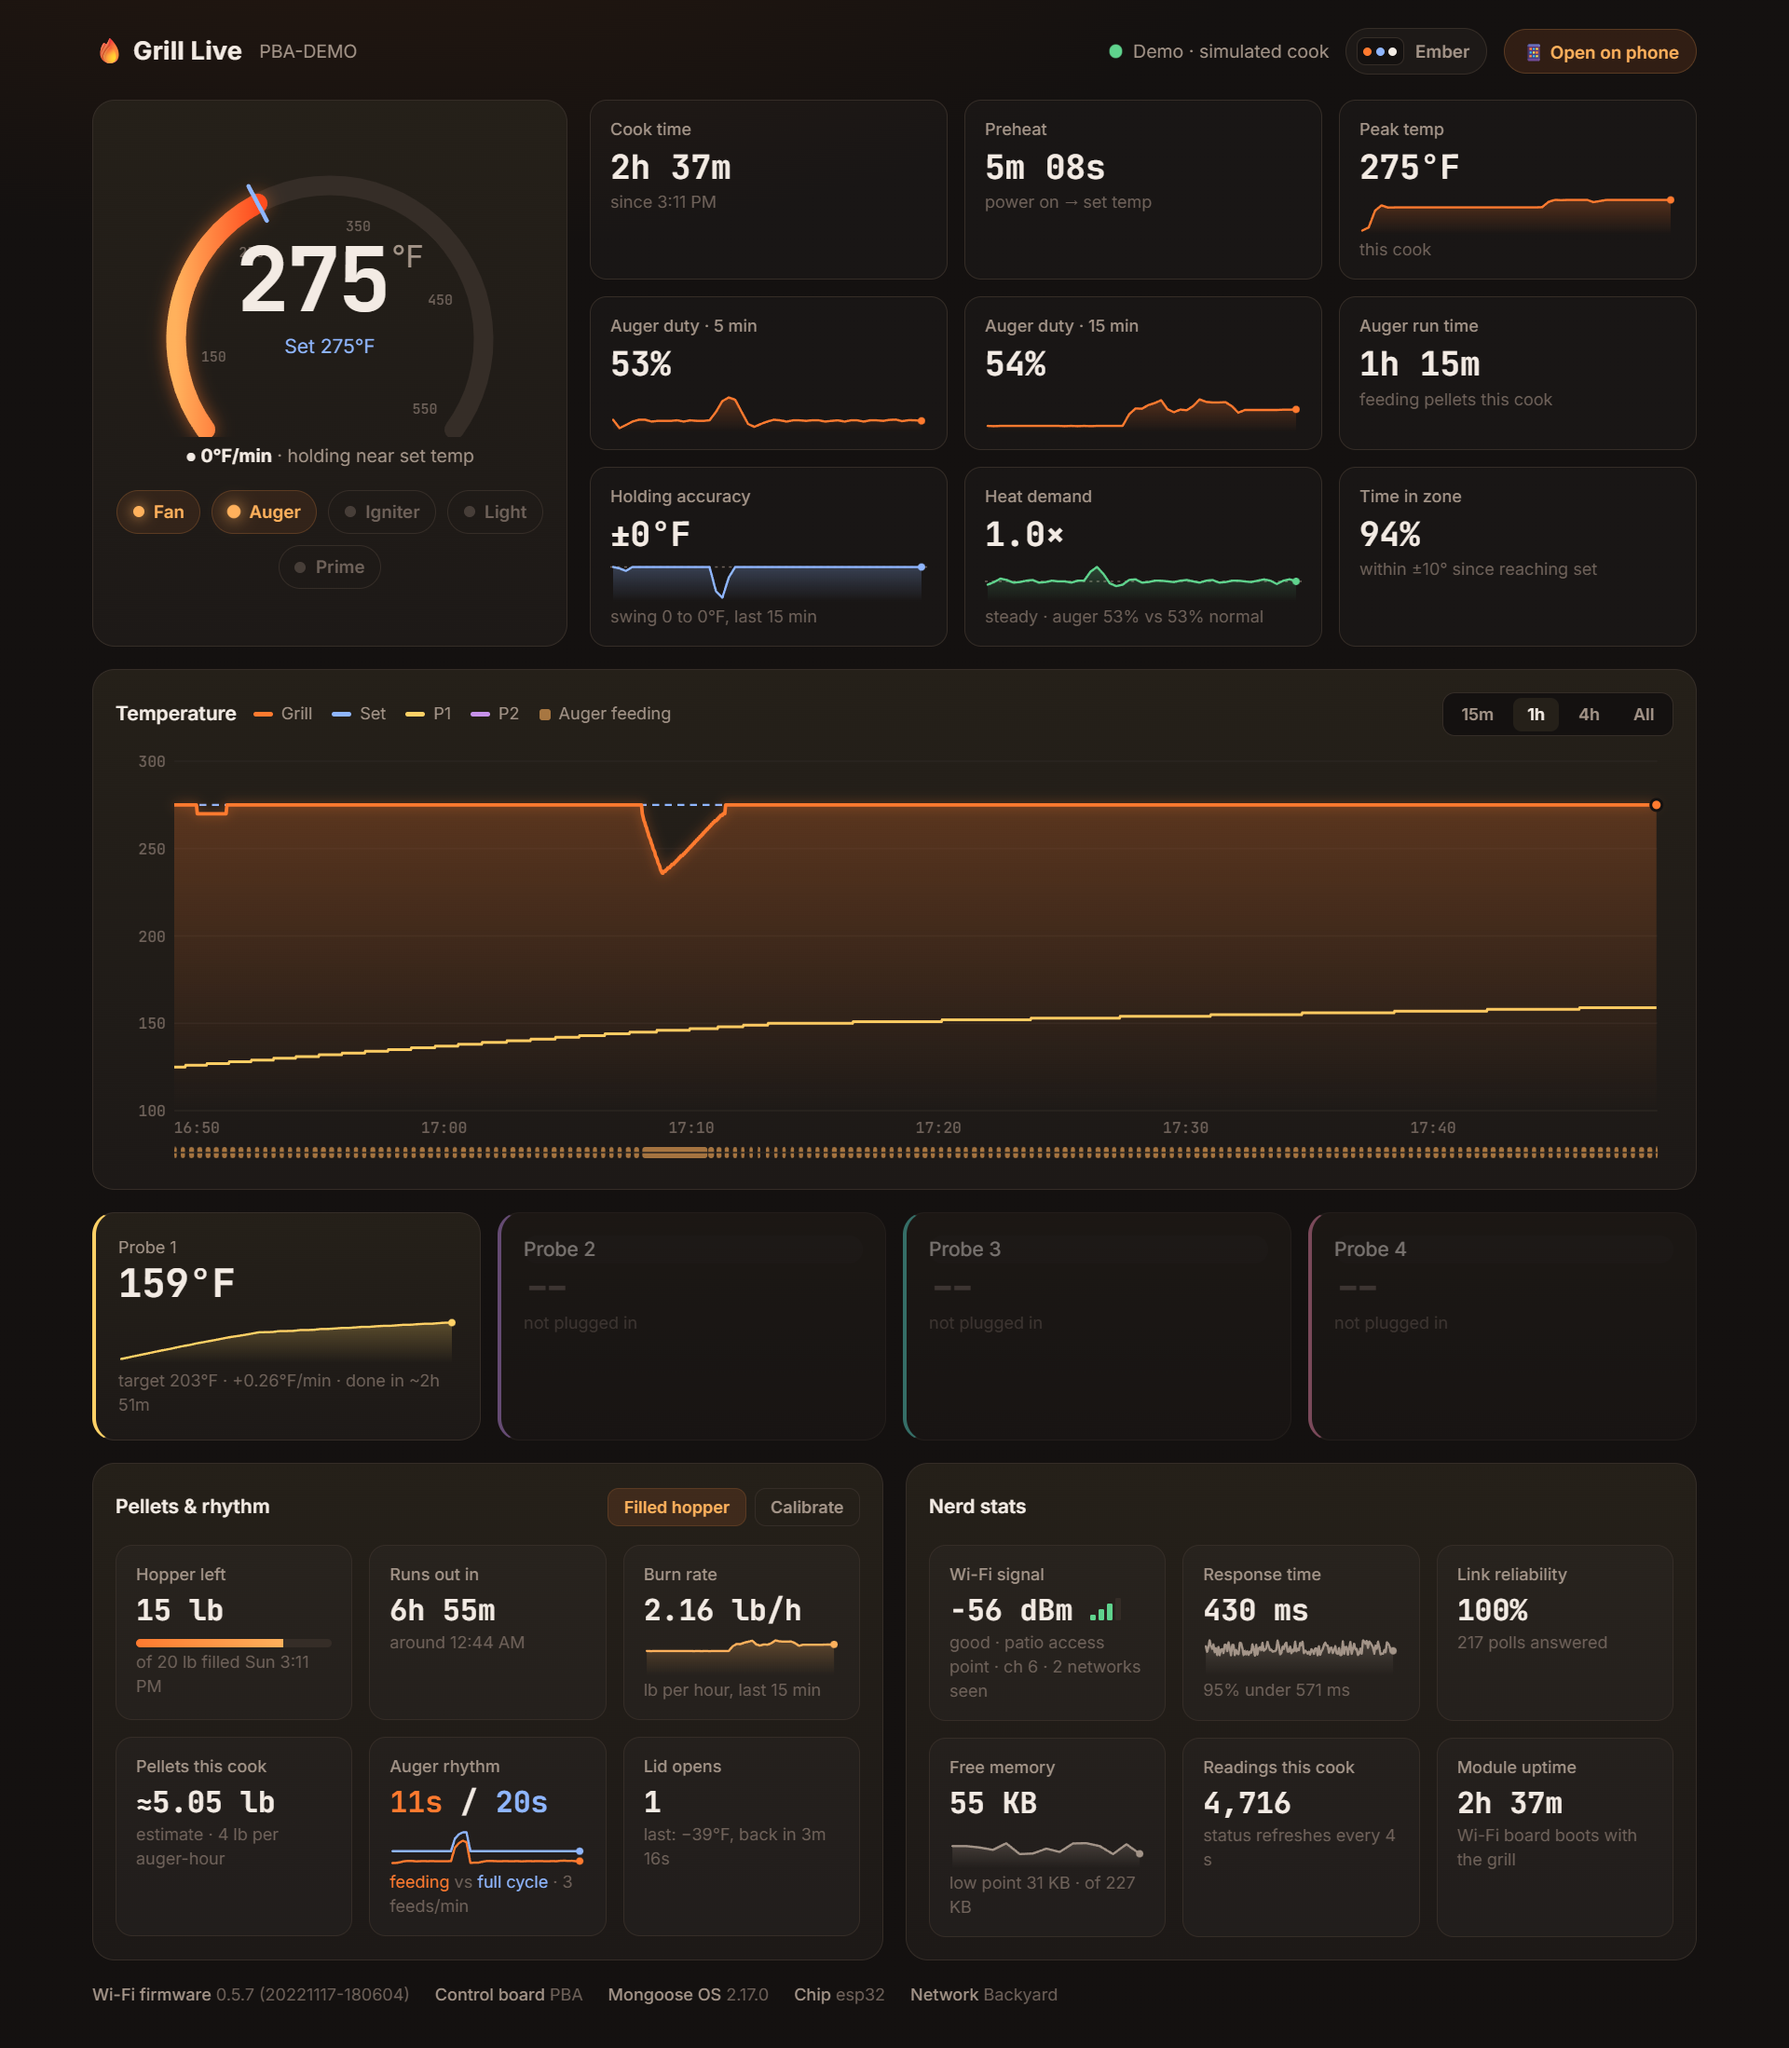
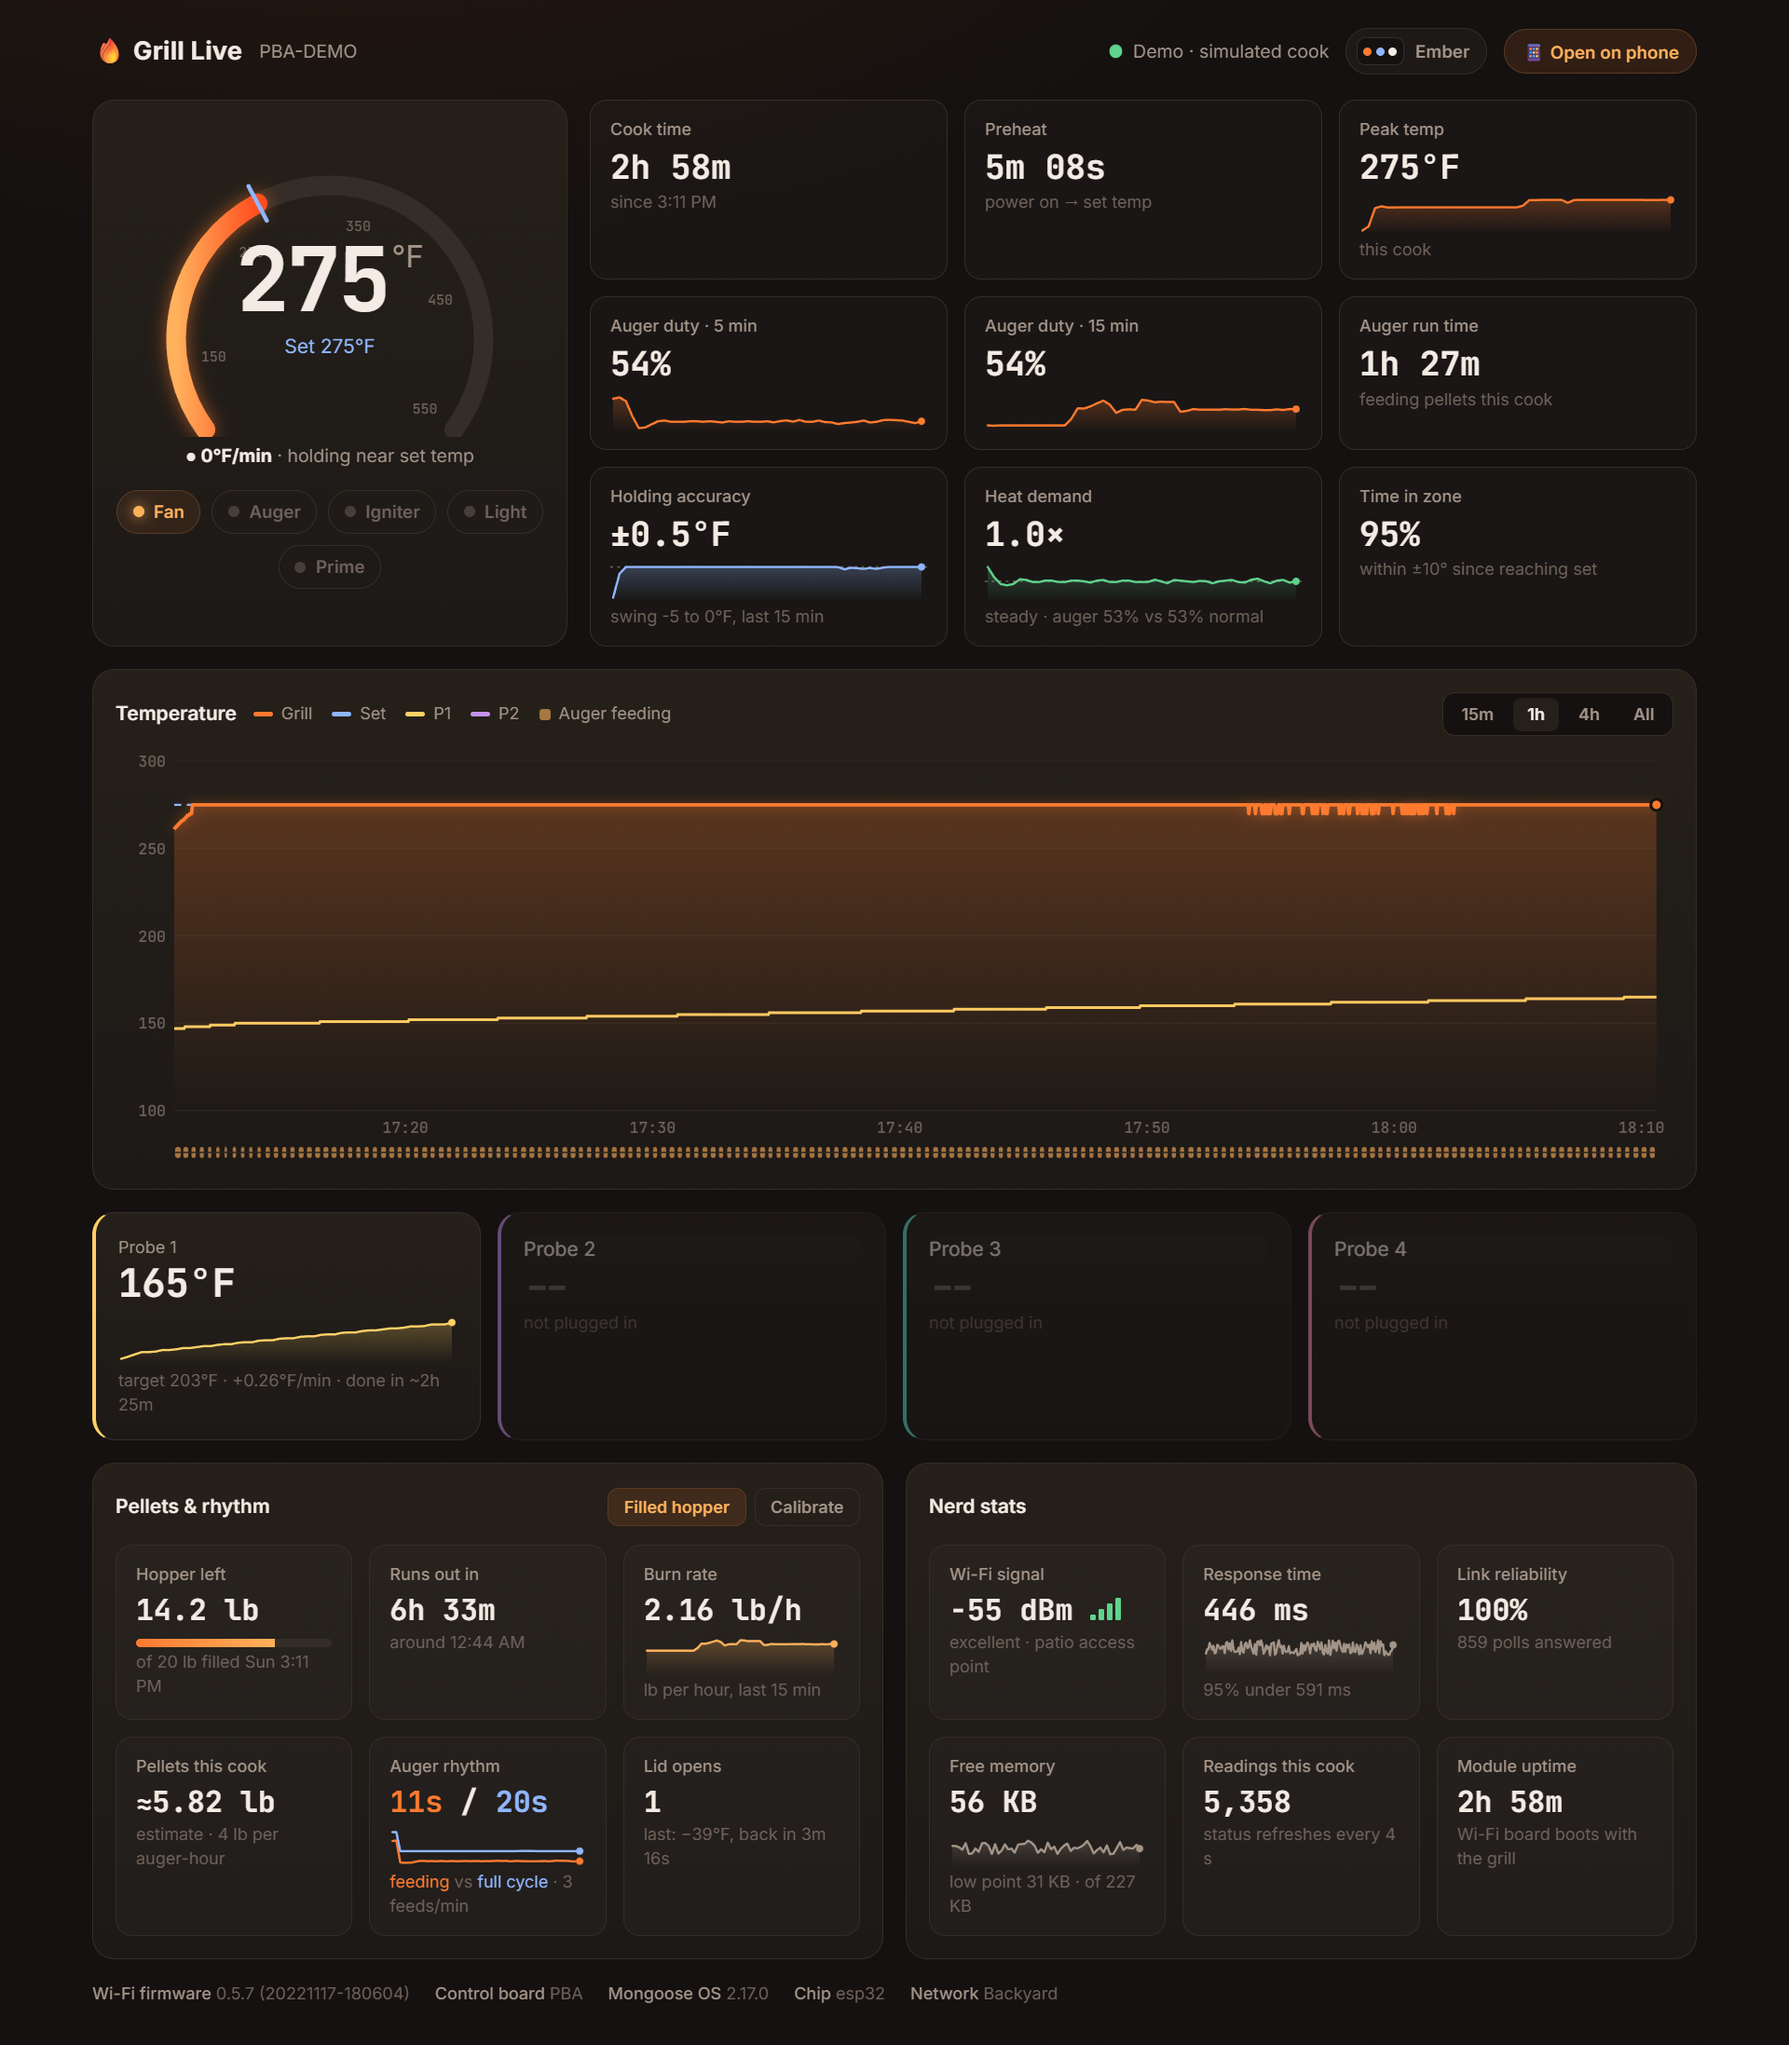
Wi-Fi card: just the signal and how good it is
Drops the access point address, channel and networks-seen count.

diff --git a/index.html b/index.html
@@ -517,7 +517,7 @@ function renderExtras(s, d, u){
   $('n-rssi').textContent = w.rssi!=null ? w.rssi + ' dBm' : '--';
   const lvl = w.rssi==null ? 0 : w.rssi >= -55 ? 4 : w.rssi >= -65 ? 3 : w.rssi >= -75 ? 2 : 1;
   $('n-bars').innerHTML = [0,1,2,3].map(i => `<rect x="${i*6}" y="${12-i*4}" width="4" height="${4+i*4}" rx="1" fill="${i<lvl?C('ok'):C('line')}"/>`).join('');
-  $('n-rssi-h').textContent = w.rssi!=null ? `${['','weak','fair','good','excellent'][lvl]} · ${w.name || w.bssid} · ch ${w.channel} · ${w.seen} networks seen` : 'first scan pending';
+  $('n-rssi-h').textContent = w.rssi!=null ? `${['','weak','fair','good','excellent'][lvl]}${w.name ? ' · ' + w.name : ''}` : 'first scan pending';
   const L = d.link || {};
   $('n-rtt').textContent = L.rttAvg!=null ? L.rttAvg + ' ms' : '--';
   $('n-rtt-h').textContent = L.rttP95!=null ? `95% under ${L.rttP95} ms` : 'grill → this PC';
